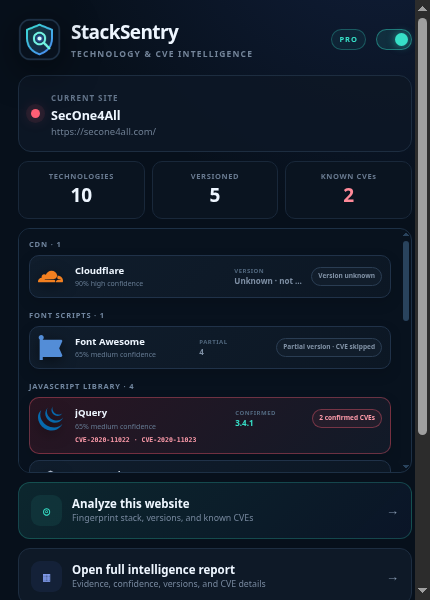
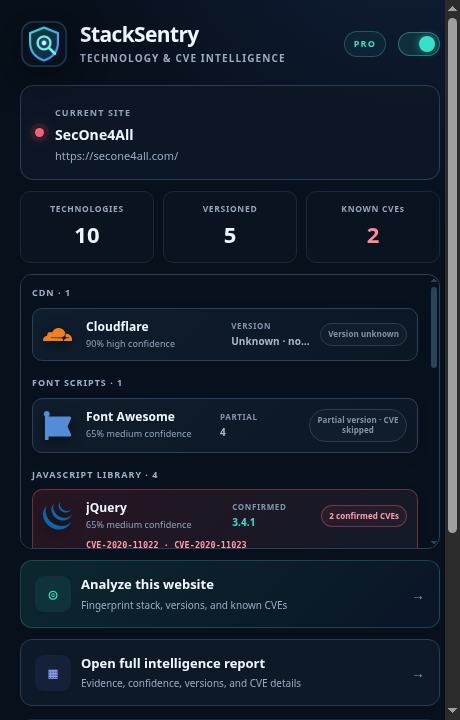
Improve StackSentry interface readability

diff --git a/report/report.css b/report/report.css
@@ -36,3 +36,20 @@ body{font-size:13px}
 .tech-name strong{font-size:12px}.tech-name span{font-size:8.5px}.tech-name em{display:block;margin-top:2px;color:#4f6b7e;font-size:7px;font-style:normal;font-weight:800;letter-spacing:.06em;text-transform:uppercase}
 .version strong,.confidence strong{font-size:9.5px}.version span,.confidence span{font-size:7px}.cve-pill{font-size:7.5px}
 .evidence-item b,.verification-note{font-size:8px}.evidence-item span{font-size:8px}
+
+/* v2.2.2 readability pass */
+:root{--muted:#a7b5c7;--line:#2a3b50}
+body{font:14px/1.55 Inter,"Segoe UI",system-ui,sans-serif;letter-spacing:.004em}
+.app-shell{grid-template-columns:275px minmax(0,1fr)}
+.sidebar{padding:24px 19px 17px}.brand{gap:12px}.brand img{width:48px;height:48px}.brand h1{font-size:20px}.brand p{color:#9aabc0;font-size:9px}.brand>span{padding:5px 8px;font-size:8px}
+.privacy{gap:10px;padding:13px}.privacy strong{font-size:12px}.privacy small{color:#9db0ad;font-size:10px;line-height:1.55}.catalog-stat{padding:12px}.catalog-stat strong{font-size:12px}.catalog-stat span{color:#93a4b9;font-size:9.5px}
+#categoryNav{gap:5px}#categoryNav button{padding:10px 11px;color:#a7b5c7;font-size:11px}#categoryNav button b{font-size:9px}.sidebar-foot{font-size:9px}.sidebar-foot small{color:#8494a8}
+.topbar{min-height:92px;padding:17px 28px}.site-heading{gap:13px}.site-heading>span{width:44px;height:44px}.site-heading small{color:#91a4bb;font-size:9px}.site-heading h2{font-size:19px}.site-heading p{color:#a1b0c2;font-size:11px}.actions button,.toolbar button{padding:10px 13px;font-size:10.5px}
+.overview{gap:28px;margin:23px 28px 16px;padding:21px}.overview-copy>span,.section-head small{font-size:9px}.overview-copy h3,.section-head h3{font-size:19px}.overview-copy p{color:#9eacbe;font-size:11px}.metrics{gap:10px}.metrics article{padding:13px}.metrics small{color:#91a3b9;font-size:8.5px}.metrics strong{font-size:24px}.metrics span{color:#93a4b9;font-size:9.5px}
+.toolbar{gap:10px;margin:0 28px 16px}.search{padding:0 13px}.search input{padding:11px 0;font-size:11px}.toolbar select{padding:0 12px;font-size:10.5px}
+.content-grid{grid-template-columns:minmax(560px,1fr) minmax(370px,470px);gap:18px;padding:0 28px 28px}.risk-column{padding-left:18px}.section-head{margin-bottom:12px}.section-head>span{color:#92a3b8;font-size:10px}.technology-list,.vulnerability-list{gap:10px}
+.technology-card{border-color:#293d54}.technology-main{grid-template-columns:48px minmax(170px,1fr) 110px 120px minmax(105px,auto) 28px;gap:12px;padding:14px}.tech-icon{width:46px;height:46px}.tech-icon img{width:27px;height:27px}.tech-name strong{font-size:14px}.tech-name span{margin-top:3px;color:#9aabc0;font-size:10px}.tech-name em{font-size:8.5px}.version strong,.confidence strong{font-size:11px}.version span,.confidence span{color:#91a3b9;font-size:8.5px}.cve-pill{padding:5px 8px;font-size:9px}.technology-main>b{font-size:17px}
+.technology-details{padding:0 15px 15px}.detail-grid{gap:11px;padding-top:13px}.detail-grid h4{font-size:9px}.evidence-item{padding:9px}.evidence-item b{font-size:9px}.evidence-item span{color:#96a8bd;font-size:9.5px}.verification-note{padding:10px;color:#a4b3c5;font-size:10px}.verification-note strong{font-size:10.5px}.verification-note code,.verification-note small{font-size:9px}
+.severity-summary{gap:7px;margin-bottom:12px}.severity-summary span{padding:8px;color:#9cadc1;font-size:8px}.severity-summary i{width:7px;height:7px}
+.vulnerability-card{padding:13px}.vuln-head{gap:8px}.vuln-head strong{font-size:10.5px}.vuln-head span{font-size:8px}.vuln-head em{font-size:8.5px}.vulnerability-card h4{margin:9px 0 5px;font-size:12px}.vulnerability-card p{color:#a3b1c3;font-size:10px}.vulnerability-card a{font-size:10px}.match-basis{font-size:8.8px}.empty b{font-size:12px}.empty span{font-size:10px}.toast{font-size:10.5px}.busy strong{font-size:13px}.busy span{font-size:10px}
+@media(max-width:1250px){.app-shell{grid-template-columns:230px minmax(0,1fr)}.content-grid{grid-template-columns:1fr}.risk-column{padding:16px 0 0;border-top:1px solid #26384c;border-left:0}.overview{align-items:stretch;flex-direction:column}.metrics{grid-template-columns:repeat(4,1fr)}}

diff --git a/popup/popup.css b/popup/popup.css
@@ -39,3 +39,19 @@ main{padding:18px}
 .scan-button strong,.report-button strong{font-size:11.5px}.scan-button small,.report-button small{font-size:8.8px}
 .controls strong{font-size:10.5px}.controls small{font-size:8.3px}
 footer{font-size:7.8px}footer b{color:#8fb7b0;font-weight:700}
+
+/* v2.2.2 readability pass */
+:root{--muted:#a5b3c5;--line:#2a3c52}
+html,body{width:460px;min-width:460px;max-width:460px}
+body{font:14px/1.5 Inter,"Segoe UI",system-ui,sans-serif;letter-spacing:.005em}
+main{padding:20px}
+.brand{gap:12px}.brand img{width:48px;height:48px}.brand h1{font-size:21px;line-height:1.15}.brand p{margin-top:4px;color:#9babc0;font-size:10px;letter-spacing:.11em}.brand>span{padding:5px 9px;font-size:9px}
+.master-switch{width:42px;height:24px}.master-switch i::after{width:16px;height:16px}.master-switch input:checked+i::after{transform:translateX(17px)}
+.site-card{margin-top:17px;padding:14px;border-color:#2b3e55}.site-card small{color:#91a3b9;font-size:9px}.site-card strong{margin-top:3px;font-size:14px}.site-card p{margin-top:3px;color:#9aabc0;font-size:11px}
+.summary{gap:9px;margin-top:11px}.summary>div{padding:11px 8px}.summary small{color:#94a5ba;font-size:8.5px}.summary strong{margin-top:3px;font-size:22px}
+.technology-preview{max-height:275px;margin-top:11px;padding:11px;border-color:#294057}.technology-preview>span{font-size:11px}.technology-group+.technology-group{margin-top:15px}.technology-group h2{margin-bottom:8px;color:#9fb1c7;font-size:9px}.technology-items{gap:8px}
+.technology-item{grid-template-columns:34px minmax(125px,1fr) 80px auto;gap:9px;padding:10px;border-color:#2b4059}.technology-item>img{width:29px;height:29px}.technology-identity strong{font-size:12px;line-height:1.25}.technology-identity small{margin-top:3px;color:#91a4bb;font-size:9px}.technology-version small{color:#8296ae;font-size:8px}.technology-version b{margin-top:2px;color:#aab8c9;font-size:10px}.technology-cve{max-width:120px;padding:5px 7px;font-size:8px;line-height:1.3;text-align:center;white-space:normal}.technology-cve-ids{font-size:8.5px;line-height:1.45}
+.scan-button,.report-button{margin-top:11px;padding:14px}.scan-button>span,.report-button>span{width:36px;height:36px;font-size:15px}.scan-button strong,.report-button strong{font-size:13px}.scan-button small,.report-button small{margin-top:3px;color:#9aabc0;font-size:10px}
+.controls{margin-top:13px}.controls label,.controls>button{min-height:56px;padding:11px 13px}.controls strong{font-size:12px}.controls small{margin-top:3px;color:#96a7bc;font-size:9.5px}.controls>button>span{font-size:17px}
+footer{margin-top:15px;padding-top:12px;color:#79b8ae;font-size:9px}footer small{color:#8495aa}
+#toast{padding:11px 13px;font-size:10.5px}

diff --git a/report/index.html b/report/index.html
@@ -13,7 +13,7 @@
       <section class="privacy"><b>◆</b><div><strong>Privacy-aware analysis</strong><small>Page fingerprints stay local. Only product and exact version are sent for CVE lookup.</small></div></section>
       <section class="catalog-stat"><strong id="catalogCoverage">Loading catalog…</strong><span>Broad passive technology coverage</span></section>
       <nav id="categoryNav"></nav>
-      <div class="sidebar-foot"><span>OSV + NVD</span><small>v2.2.1</small></div>
+      <div class="sidebar-foot"><span>OSV + NVD</span><small>v2.2.2</small></div>
     </aside>
 
     <main>

diff --git a/popup/popup.html b/popup/popup.html
@@ -41,7 +41,7 @@
       <button id="excludeSite" type="button"><span>⊘</span><div><strong>Exclude this site</strong><small>Pause automatic analysis for this hostname</small></div></button>
     </section>
 
-    <footer><span>◆ <b id="catalogCoverage">Maintained catalog ready</b></span><small>v2.2.1</small></footer>
+    <footer><span>◆ <b id="catalogCoverage">Maintained catalog ready</b></span><small>v2.2.2</small></footer>
   </main>
   <div id="toast" role="status"></div>
   <script type="module" src="popup.js"></script>

diff --git a/README.md b/README.md
@@ -6,7 +6,7 @@
 
   **Automatic web-stack fingerprinting with evidence, exact versions, and version-aware CVE intelligence.**
 
-  [![Version](https://img.shields.io/badge/version-2.2.1-39cdb9?style=flat-square)](manifest.json)
+  [![Version](https://img.shields.io/badge/version-2.2.2-39cdb9?style=flat-square)](manifest.json)
   [![Fingerprints](https://img.shields.io/badge/fingerprints-7%2C628-6389ff?style=flat-square)](#technology-coverage)
   [![Chrome MV3](https://img.shields.io/badge/Chrome-Manifest%20V3-4285F4?style=flat-square&logo=googlechrome&logoColor=white)](manifest.json)
   [![Data](https://img.shields.io/badge/CVE%20data-OSV%20%2B%20NVD-5d84ff?style=flat-square)](#version-aware-vulnerability-intelligence)
@@ -104,7 +104,7 @@ of performing a broad product-name lookup.
 
 ## Installation
 
-1. Download and extract [`stacksentry-2.2.1.zip`](dist/stacksentry-2.2.1.zip).
+1. Download and extract [`stacksentry-2.2.2.zip`](dist/stacksentry-2.2.2.zip).
 2. Open `chrome://extensions`.
 3. Enable **Developer mode**.
 4. Select **Load unpacked**.
@@ -193,12 +193,12 @@ fingerprint source and all dependency notices are included in the release.
 - [Detailed documentation](DOCUMENTATION.md)
 - [Plain-text guide](DOCUMENTATION.txt)
 - [Changelog](CHANGELOG.md)
-- [Release ZIP](dist/stacksentry-2.2.1.zip)
+- [Release ZIP](dist/stacksentry-2.2.2.zip)
 - [Third-party notices](THIRD_PARTY_NOTICES.md)
 
 ---
 
 <div align="center">
-  <strong>StackSentry v2.2.1</strong><br>
+  <strong>StackSentry v2.2.2</strong><br>
   Evidence first. Exact versions. Honest vulnerability intelligence.
 </div>

diff --git a/CHANGELOG.md b/CHANGELOG.md
@@ -1,5 +1,14 @@
 # Changelog
 
+## 2.2.2
+
+- Increased popup and report typography to readable interface sizes, with
+  stronger contrast for secondary labels, evidence, versions, and CVE states.
+- Widened technology rows and increased spacing so names, versions, confidence,
+  and vulnerability status remain visually distinct.
+- Improved controls, summary cards, navigation, and responsive report layout
+  while preserving the complete technology inventory.
+
 ## 2.2.1
 
 - Added a strict exact-version gate before OSV or NVD enrichment. Major-only,

diff --git a/DOCUMENTATION.md b/DOCUMENTATION.md
@@ -87,7 +87,7 @@ headers. Always inspect the evidence and validate high-impact findings manually.
 
 ## Install
 
-1. Extract `dist/stacksentry-2.2.1.zip`.
+1. Extract `dist/stacksentry-2.2.2.zip`.
 2. Open `chrome://extensions`.
 3. Enable Developer mode.
 4. Select **Load unpacked** and choose the extracted directory.
